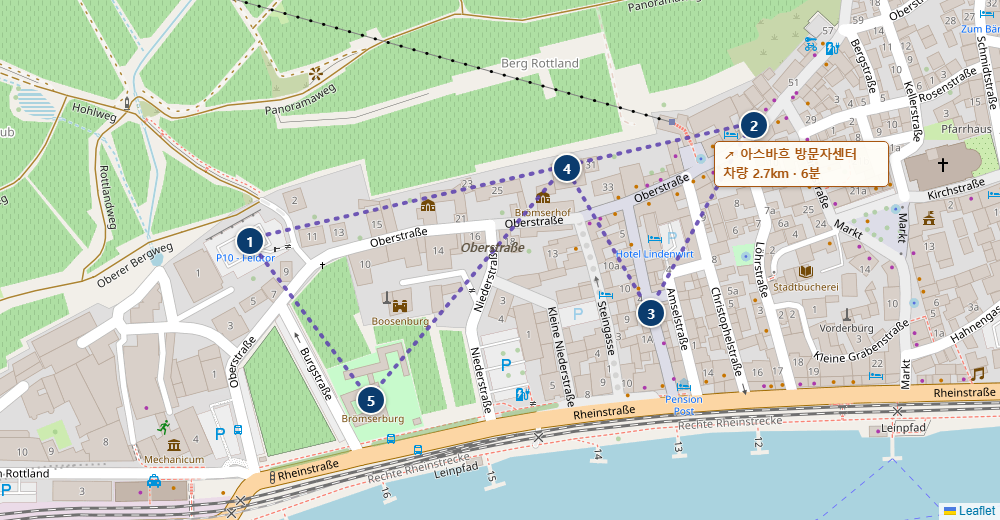
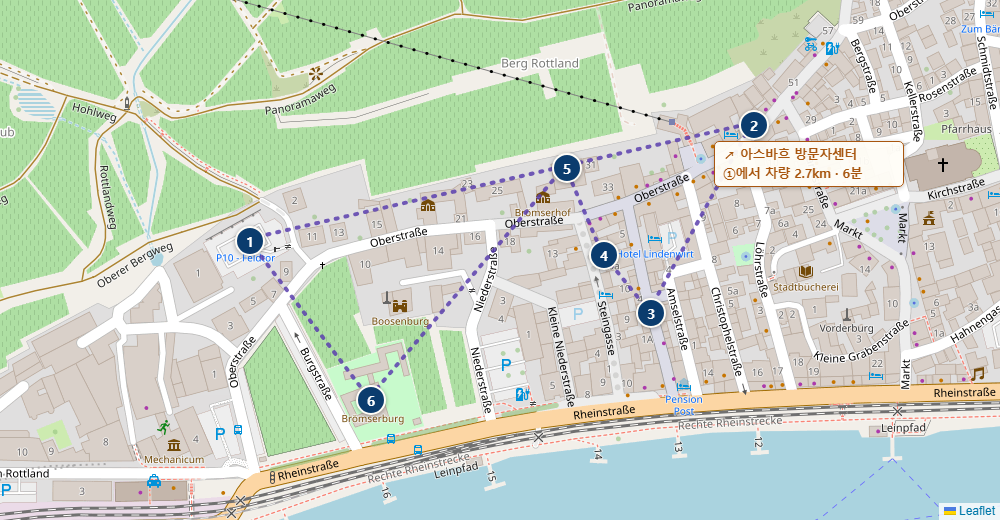
Make Oberstraße its own numbered stop; fill in room sizes
- Split Oberstraße out as stop 4 in the Rüdesheim walking loop (was
  previously just an italic overlay label that wasn't showing up
  clearly), renumbering the map pins and route-steps list to match,
  and updating the Google Maps waypoints link.
- Clarify the Asbach off-loop callout to read "①에서 차량 2.7km · 6분"
  so it's unambiguous the distance is measured from P10 Feldtor (①),
  not from the cable car station (②) it happens to sit next to.
- Fill in the lodging table's 면적 (room size) row for all 6 stays
  and 1일차's 체크아웃 (~10:00) with the user-provided figures.

diff --git a/germany-roadtrip-planner.html b/germany-roadtrip-planner.html
@@ -3661,8 +3661,8 @@ document.addEventListener('DOMContentLoaded', function(){
         <h4>가볼 만한 곳</h4>
       <p class="city-label">뤼데스하임</p>
       <p class="walk-map-note">🚗 숙소(Trechtingshausen)→케이블카 승강장 약 8.6km·22분 · <a href="https://www.google.com/maps/dir/?api=1&travelmode=driving&origin=49.97,7.86&destination=49.9796,7.9219" target="_blank" rel="noopener">Google 지도로 길찾기</a><br>🅿 P10 Feldtor(드로셀가세·구시가 도보권) · 주차 후 도보 약 5분 · <a href="https://www.google.com/maps/search/?api=1&query=P10+Feldtor+Ruedesheim" target="_blank" rel="noopener">주차장 위치 보기</a></p>
-      <p class="walk-map-note">지도별 추천 코스 — 뤼데스하임: 케이블카 승강장 → 드로셀가세 → 악기박물관(오버 거리) → 브뢰머부르크</p>
-      <a class="walk-map-link" href="https://www.google.com/maps/dir/?api=1&travelmode=walking&origin=49.9788,7.9165&destination=49.9788,7.9165&waypoints=49.9796%2C7.9219%7C49.9783%2C7.9208%7C49.9793,7.9199%7C49.9777,7.9178" target="_blank" rel="noopener">📍 Google 지도로 도보 코스 보기(출발·도착: P10 Feldtor 주차장) · 총 약 1.3km · 도보 약 16분</a>
+      <p class="walk-map-note">지도별 추천 코스 — 뤼데스하임: 케이블카 승강장 → 드로셀가세 → 오버 거리(Oberstraße) → 악기박물관 → 브뢰머부르크</p>
+      <a class="walk-map-link" href="https://www.google.com/maps/dir/?api=1&travelmode=walking&origin=49.9788,7.9165&destination=49.9788,7.9165&waypoints=49.9796%2C7.9219%7C49.9783%2C7.9208%7C49.9787,7.9203%7C49.9793,7.9199%7C49.9777,7.9178" target="_blank" rel="noopener">📍 Google 지도로 도보 코스 보기(출발·도착: P10 Feldtor 주차장) · 총 약 1.3km · 도보 약 16분</a>
       <div class="route-snapshot">
         <div class="route-snapshot-media">
           <img src="images/routes/ruedesheim.png" alt="뤼데스하임 도보 코스 지도 스냅샷" loading="lazy">
@@ -3671,7 +3671,8 @@ document.addEventListener('DOMContentLoaded', function(){
         <li><span class="rs-name">P10 Feldtor 주차장</span></li>
         <li><span class="rs-name">케이블카 승강장</span><span class="rs-seg">(450m, 6분)</span></li>
         <li><span class="rs-name">드로셀가세</span><span class="rs-seg">(200m, 2분)</span></li>
-        <li><span class="rs-name">악기박물관</span><span class="rs-seg">(120m, 2분)</span></li>
+        <li><span class="rs-name">오버 거리(Oberstraße)</span><span class="rs-seg">(70m, 1분)</span></li>
+        <li><span class="rs-name">악기박물관</span><span class="rs-seg">(60m, 1분)</span></li>
         <li><span class="rs-name">브뢰머부르크</span><span class="rs-seg">(260m, 3분)</span></li>
         <li><span class="rs-name">P10 Feldtor 주차장</span><span class="rs-seg">(220m, 3분)</span></li>
         </ol>

diff --git a/index.html b/index.html
@@ -3661,8 +3661,8 @@ document.addEventListener('DOMContentLoaded', function(){
         <h4>가볼 만한 곳</h4>
       <p class="city-label">뤼데스하임</p>
       <p class="walk-map-note">🚗 숙소(Trechtingshausen)→케이블카 승강장 약 8.6km·22분 · <a href="https://www.google.com/maps/dir/?api=1&travelmode=driving&origin=49.97,7.86&destination=49.9796,7.9219" target="_blank" rel="noopener">Google 지도로 길찾기</a><br>🅿 P10 Feldtor(드로셀가세·구시가 도보권) · 주차 후 도보 약 5분 · <a href="https://www.google.com/maps/search/?api=1&query=P10+Feldtor+Ruedesheim" target="_blank" rel="noopener">주차장 위치 보기</a></p>
-      <p class="walk-map-note">지도별 추천 코스 — 뤼데스하임: 케이블카 승강장 → 드로셀가세 → 악기박물관(오버 거리) → 브뢰머부르크</p>
-      <a class="walk-map-link" href="https://www.google.com/maps/dir/?api=1&travelmode=walking&origin=49.9788,7.9165&destination=49.9788,7.9165&waypoints=49.9796%2C7.9219%7C49.9783%2C7.9208%7C49.9793,7.9199%7C49.9777,7.9178" target="_blank" rel="noopener">📍 Google 지도로 도보 코스 보기(출발·도착: P10 Feldtor 주차장) · 총 약 1.3km · 도보 약 16분</a>
+      <p class="walk-map-note">지도별 추천 코스 — 뤼데스하임: 케이블카 승강장 → 드로셀가세 → 오버 거리(Oberstraße) → 악기박물관 → 브뢰머부르크</p>
+      <a class="walk-map-link" href="https://www.google.com/maps/dir/?api=1&travelmode=walking&origin=49.9788,7.9165&destination=49.9788,7.9165&waypoints=49.9796%2C7.9219%7C49.9783%2C7.9208%7C49.9787,7.9203%7C49.9793,7.9199%7C49.9777,7.9178" target="_blank" rel="noopener">📍 Google 지도로 도보 코스 보기(출발·도착: P10 Feldtor 주차장) · 총 약 1.3km · 도보 약 16분</a>
       <div class="route-snapshot">
         <div class="route-snapshot-media">
           <img src="images/routes/ruedesheim.png" alt="뤼데스하임 도보 코스 지도 스냅샷" loading="lazy">
@@ -3671,7 +3671,8 @@ document.addEventListener('DOMContentLoaded', function(){
         <li><span class="rs-name">P10 Feldtor 주차장</span></li>
         <li><span class="rs-name">케이블카 승강장</span><span class="rs-seg">(450m, 6분)</span></li>
         <li><span class="rs-name">드로셀가세</span><span class="rs-seg">(200m, 2분)</span></li>
-        <li><span class="rs-name">악기박물관</span><span class="rs-seg">(120m, 2분)</span></li>
+        <li><span class="rs-name">오버 거리(Oberstraße)</span><span class="rs-seg">(70m, 1분)</span></li>
+        <li><span class="rs-name">악기박물관</span><span class="rs-seg">(60m, 1분)</span></li>
         <li><span class="rs-name">브뢰머부르크</span><span class="rs-seg">(260m, 3분)</span></li>
         <li><span class="rs-name">P10 Feldtor 주차장</span><span class="rs-seg">(220m, 3분)</span></li>
         </ol>

diff --git a/german-lodging.html b/german-lodging.html
@@ -417,12 +417,12 @@
           </tr>
           <tr>
             <th class="row-label">면적</th>
-            <td><span class="yn-unknown">미기재</span></td>
-            <td><span class="yn-unknown">미기재</span></td>
-            <td><span class="yn-unknown">미기재</span></td>
+            <td>20m²</td>
+            <td>45m²</td>
+            <td>20m²</td>
             <td>34m²</td>
-            <td><span class="yn-unknown">미기재</span></td>
-            <td><span class="yn-unknown">미기재</span></td>
+            <td>38m²</td>
+            <td>80m²</td>
           </tr>
           <tr>
             <th class="row-label">냉장고</th>
@@ -462,7 +462,7 @@
           </tr>
           <tr>
             <th class="row-label">체크아웃</th>
-            <td><span class="yn-unknown">미기재</span></td>
+            <td>~10:00</td>
             <td>06:00–11:00</td>
             <td>10:00–12:00</td>
             <td>07:30–11:00</td>
